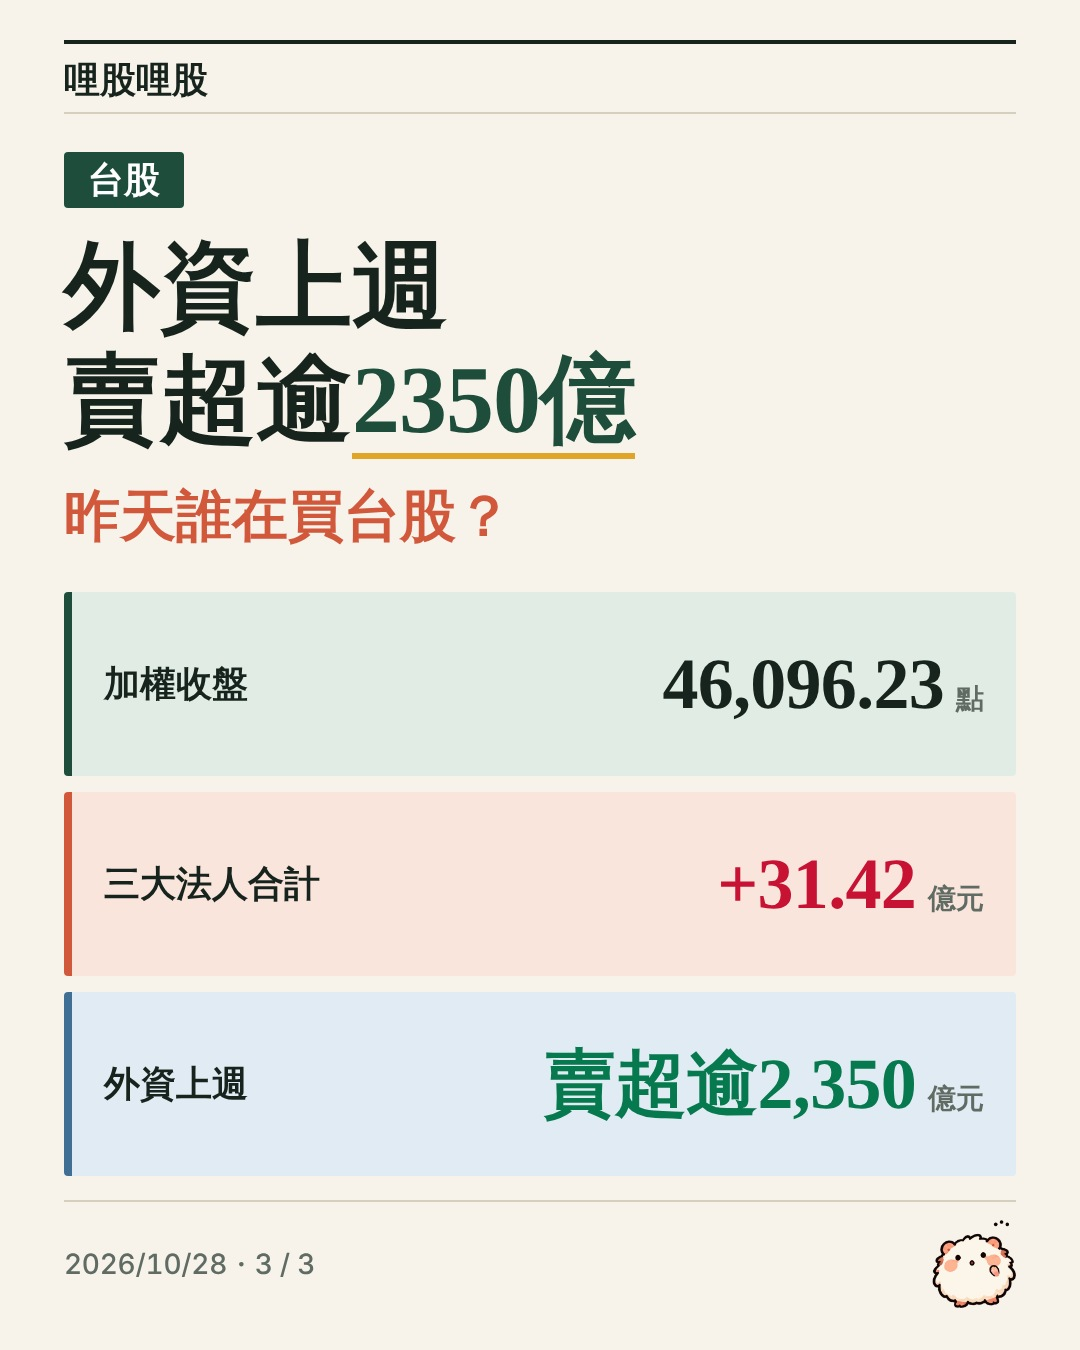
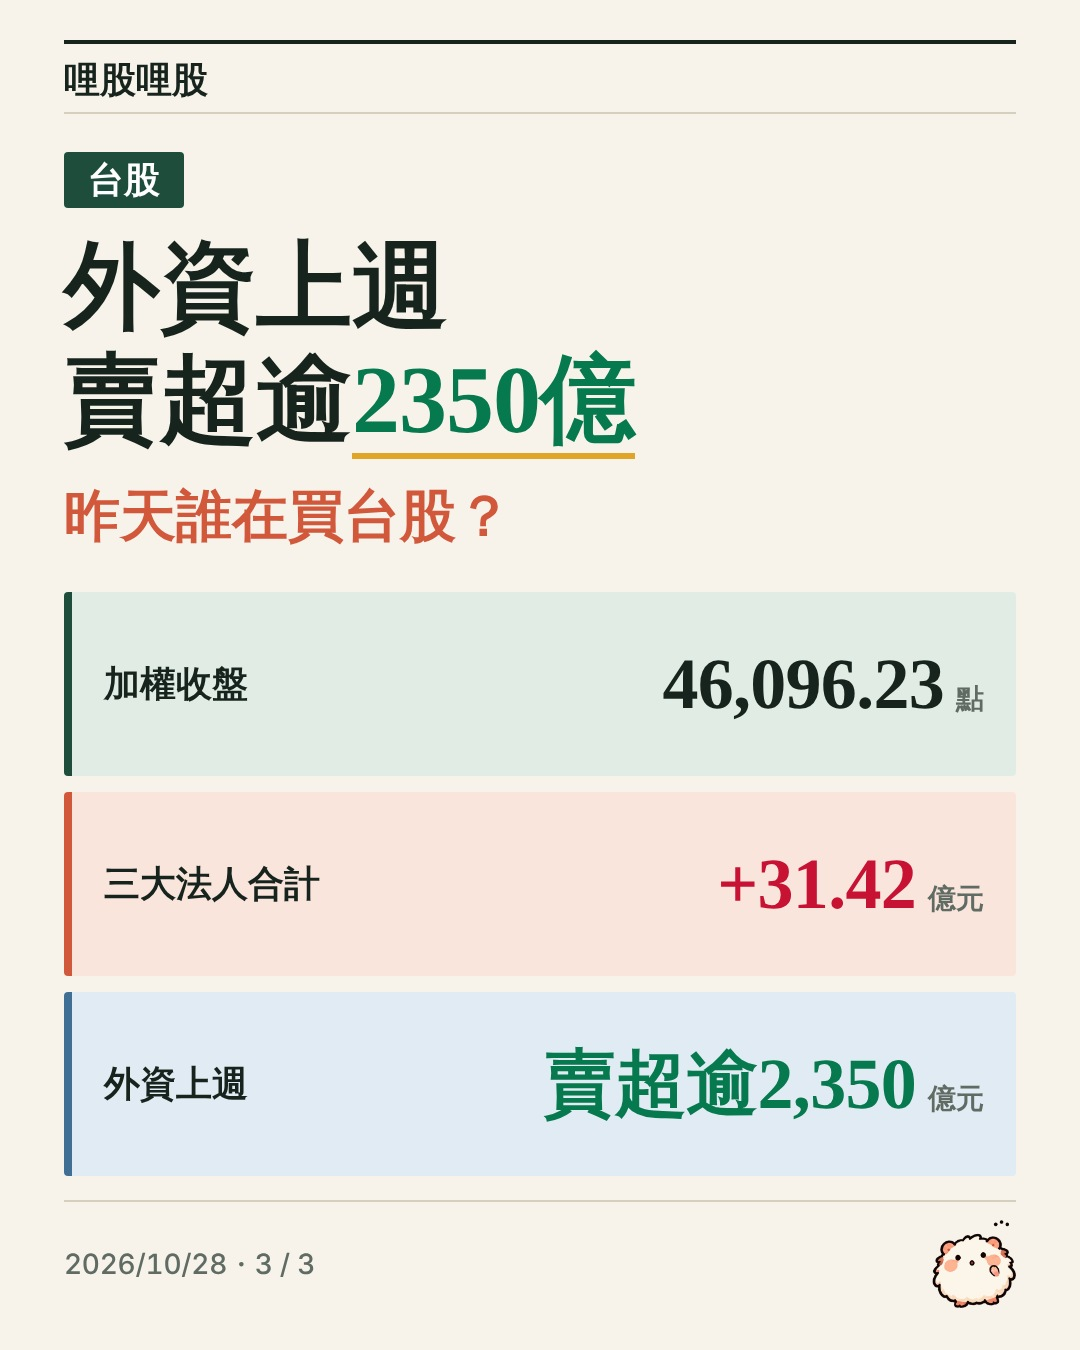
新聞圖卡美編審查：標題漲跌數字改台股紅漲綠跌，附審查紀錄
Claude-Session: https://claude.ai/code/session_012g4oeY7X1bJYy2XizDYVTu

Changed region(s): [[0.3361, 0.2489, 0.5806, 0.3422]]

diff --git a/docs/marketing/posts/render_news_cards.py b/docs/marketing/posts/render_news_cards.py
@@ -16,7 +16,9 @@ e = html.escape
 def hl(title):  # 標題第一個數字（含單位）加芥黃底線，並用主綠
     m = NUM.search(title)
     if not m: return e(title)
-    return e(title[:m.start()]) + f'<span class="u num ser" style="font-weight:700">{e(m.group(0))}</span>' + e(title[m.end():])
+    col = UP if ("漲" in title and "跌" not in title) else DN if ("賣超" in title or "跌" in title) else None  # 台股紅漲綠跌
+    st = f";color:{col}" if col else ""
+    return e(title[:m.start()]) + f'<span class="u num ser" style="font-weight:700{st}">{e(m.group(0))}</span>' + e(title[m.end():])
 def vcolor(v):
     v = v.strip()
     if v.startswith(("+", "買超")): return UP     # 台股紅漲（買超同紅）

diff --git a/docs/marketing/posts/2026-10-28-news/design_review.md b/docs/marketing/posts/2026-10-28-news/design_review.md
@@ -1,0 +1,14 @@
+# 新聞圖卡美編審查（pre 1～4、intra 1～3，D+ v5，2026-10-28）
+
+| 項目 | 結果 |
+|---|---|
+| 對齊／格線 | 過：外距 64、三塊等高等距，數字靠右、標籤靠左，7 張一致 |
+| 字級層級 | 過：標題 96／副標 56（珊瑚）／數字 72／標籤 36／頁尾 28，層級清楚，最小 28 |
+| 配色語意 | 原不過、已修：漲跌標題數字原為主綠，與同卡 +1.18% 紅色矛盾（pre1 費半漲 3.6% 應紅；intra3 賣超 2350 億應綠）。renderer hl() 改為標題含「漲」→ #C81234、含「賣超／跌」→ #07794F；其餘維持主綠 |
+| 留白 | 過：塊內左右留白均衡，標題到副標到資訊塊節奏一致 |
+| 斷行 | 過：兩行標題依字寬平衡斷行，無孤字、無數字被拆 |
+| 重疊 | 過：程式 pre 4 張／intra 3 張 0 筆；人工逐張全解析度 7 張 0 筆 |
+| 對比 | 過：珊瑚標籤上放字深（約 4.3）勉強，可接受；其餘 >5 |
+
+小提醒（未改，屬內容取捨）：標題數字與前字緊貼（「破100兆」「逾2350億」）為刻意同行強調，視覺可接受。
+已修：pre/1.jpg、intra/3.jpg 重產。
